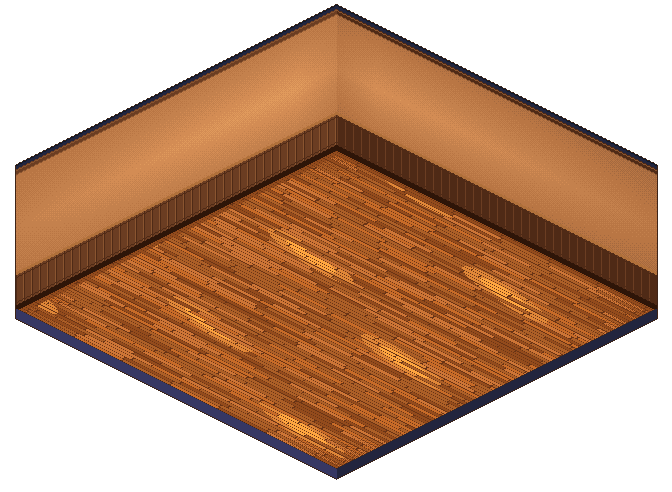
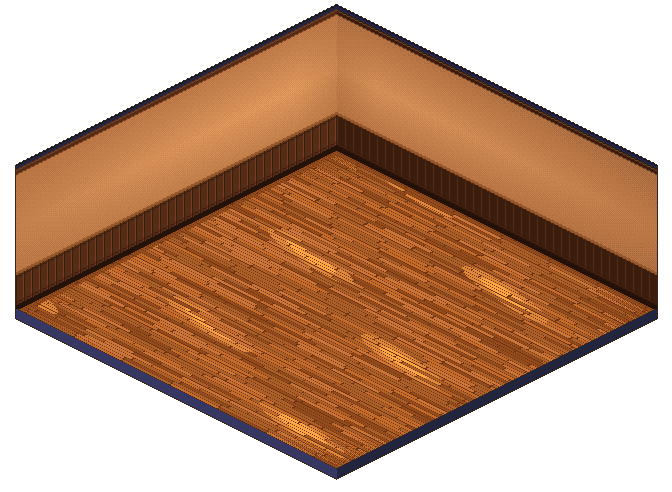
One wood everywhere: room panels, drawn furniture, piano and cut pieces
WOOD in draw_room.py is the café's single wood ramp. The room's wainscot and trim, every
drawn prop (the piano included) and the door use it; unify_wood.py snaps the browns in the
pieces cut from the original onto it (by brightness, leaving golds and pastries alone), and
cut_reference.py now runs it on every cut.

diff --git a/art/unify_wood.py b/art/unify_wood.py
@@ -1,0 +1,44 @@
+"""Snap the wood in the sprites cut from the original onto the café's one wood (WOOD in
+draw_room.py), so cut pieces match the drawn ones and the room.
+
+A pixel counts as wood when it's a warm brown (red > green > blue, clearly warm) and not
+bright: bright golds, glows and pastries are left alone. Each wood pixel takes the ramp
+colour nearest its brightness.
+
+    python3 art/unify_wood.py [name ...]
+"""
+import os
+import sys
+
+import numpy as np
+from PIL import Image
+
+from draw_room import WOOD
+
+ART = os.path.dirname(os.path.abspath(__file__))
+SPRITES = os.path.join(os.path.dirname(ART), "public", "cafe", "sprites")
+CUT = ["pastry-counter", "back-bar-shelves", "espresso-station", "record-cabinet", "chalkboard-menu",
+       "sax-poster", "record-art", "framed-picture-tall"]
+RAMP = np.array([[int(v[i : i + 2], 16) for i in (1, 3, 5)] for v in WOOD])
+RAMP_LUM = RAMP @ np.array([0.299, 0.587, 0.114])
+EDGE = (36, 20, 13)  # the dark outline: keep it
+
+
+def unify(name):
+    path = os.path.join(SPRITES, f"{name}.png")
+    a = np.asarray(Image.open(path).convert("RGBA")).copy()
+    r, g, b = (a[..., i].astype(int) for i in range(3))
+    lum = 0.299 * r + 0.587 * g + 0.114 * b
+    wood = (a[..., 3] > 0) & (r >= g) & (g >= b) & ((r - b) > 18) & (lum < 125) & ~((r == EDGE[0]) & (g == EDGE[1]) & (b == EDGE[2]))
+    # map the piece's own wood brightness range onto the ramp, so its shading survives
+    lo, hi = np.percentile(lum[wood], [3, 97]) if wood.any() else (0, 1)
+    t = np.clip((lum - lo) / max(hi - lo, 1), 0, 1)
+    idx = np.clip(np.round(t * (len(WOOD) - 1)).astype(int), 0, len(WOOD) - 1)
+    a[..., :3][wood] = RAMP[idx[wood]]
+    Image.fromarray(a).save(path)
+    return int(wood.sum())
+
+
+if __name__ == "__main__":
+    for n in sys.argv[1:] or CUT:
+        print(f"{n:22s} {unify(n)} wood px")

diff --git a/art/draw_room.py b/art/draw_room.py
@@ -21,14 +21,18 @@ from draw_iso import P as BASE_P
 # The room gets a few warmer tones on top of the shared palette: golden walls, deep wood.
 # Colors sampled from the original café: orange-brown planks with dark seams and bright
 # reflections, warm cream walls over dark wood paneling.
+# The café's one wood, dark to light. Every wooden thing (wainscot, furniture, piano, frames)
+# uses these six colours so it all reads as the same wood.
+WOOD = ["#241208", "#3a1d0d", "#552c15", "#74401f", "#94582b", "#b8763c"]
+
 P = {**BASE_P, **{k: tuple(int(v[i : i + 2], 16) for i in (1, 3, 5)) + (255,) for k, v in {
     # walls: the original's lamp-lit orange-tan plaster (sampled from the high-res original)
     "wall0": "#a4693f", "wall1": "#b97644", "wall2": "#c4814d", "wall3": "#d38c54", "wall4": "#e09a5c",
-    "glow": "#eba868", "deep0": "#2e1508", "deep1": "#4a2410",
+    "glow": "#eba868", "deep0": WOOD[0], "deep1": WOOD[1],
     # floor: golden honey planks with bright glossy reflections
     "plank0": "#934b1c", "plank1": "#ac5f27", "plank2": "#c76b28", "plank3": "#cd7536",
     "seam": "#6a3415", "shine0": "#e08738", "shine1": "#ffa640",
-    "panel0": "#4f2a16", "panel1": "#6b3d22", "panel2": "#8a5530", "rail": "#b0703a",
+    "panel0": WOOD[1], "panel1": WOOD[2], "panel2": WOOD[3], "rail": WOOD[4],
     # navy trim and base, like the original's outer walls
     "navy0": "#0a192f", "navy1": "#22253e", "navy2": "#363763",
 }.items()}}

diff --git a/art/draw_props.py b/art/draw_props.py
@@ -12,6 +12,7 @@ import sys
 from PIL import Image
 
 from draw_cozy import P as COZY, Canvas, face_left, face_right, face_top
+from draw_room import WOOD
 
 ART = os.path.dirname(os.path.abspath(__file__))
 OUT = os.path.join(os.path.dirname(ART), "public", "cafe", "sprites")
@@ -30,6 +31,9 @@ for k, v in {
     "mah0": "#1b0801", "mah1": "#33140a", "mah2": "#4a2212", "mah3": "#6e3414", "mah4": "#903f02", "mah5": "#c7875d", "key0": "#c9b28c", "key1": "#f3e6c8", "key2": "#fff8e6",
 }.items():
     P[k] = tuple(int(v[i : i + 2], 16) for i in (1, 3, 5)) + (255,)
+# one wood for everything (the piano too), from the room's ramp
+for i, v in enumerate(WOOD):
+    P[f"wood{i}"] = P[f"mah{i}"] = tuple(int(v[j : j + 2], 16) for j in (1, 3, 5)) + (255,)
 
 
 EXTRA = {}  # name -> companion info (sky mask, sun patch) for _companions.json

diff --git a/art/cut_reference.py b/art/cut_reference.py
@@ -154,8 +154,10 @@ def cut(name, poly, remove, pal):
 
 
 if __name__ == "__main__":
+    from unify_wood import unify
     pal = palette()
     for name in sys.argv[1:] or PIECES:
         poly, remove = PIECES[name]
         im = cut(name, poly, remove, pal)
+        unify(name)  # same wood as everything else
         print(f"{name:22s} {im.size}")
